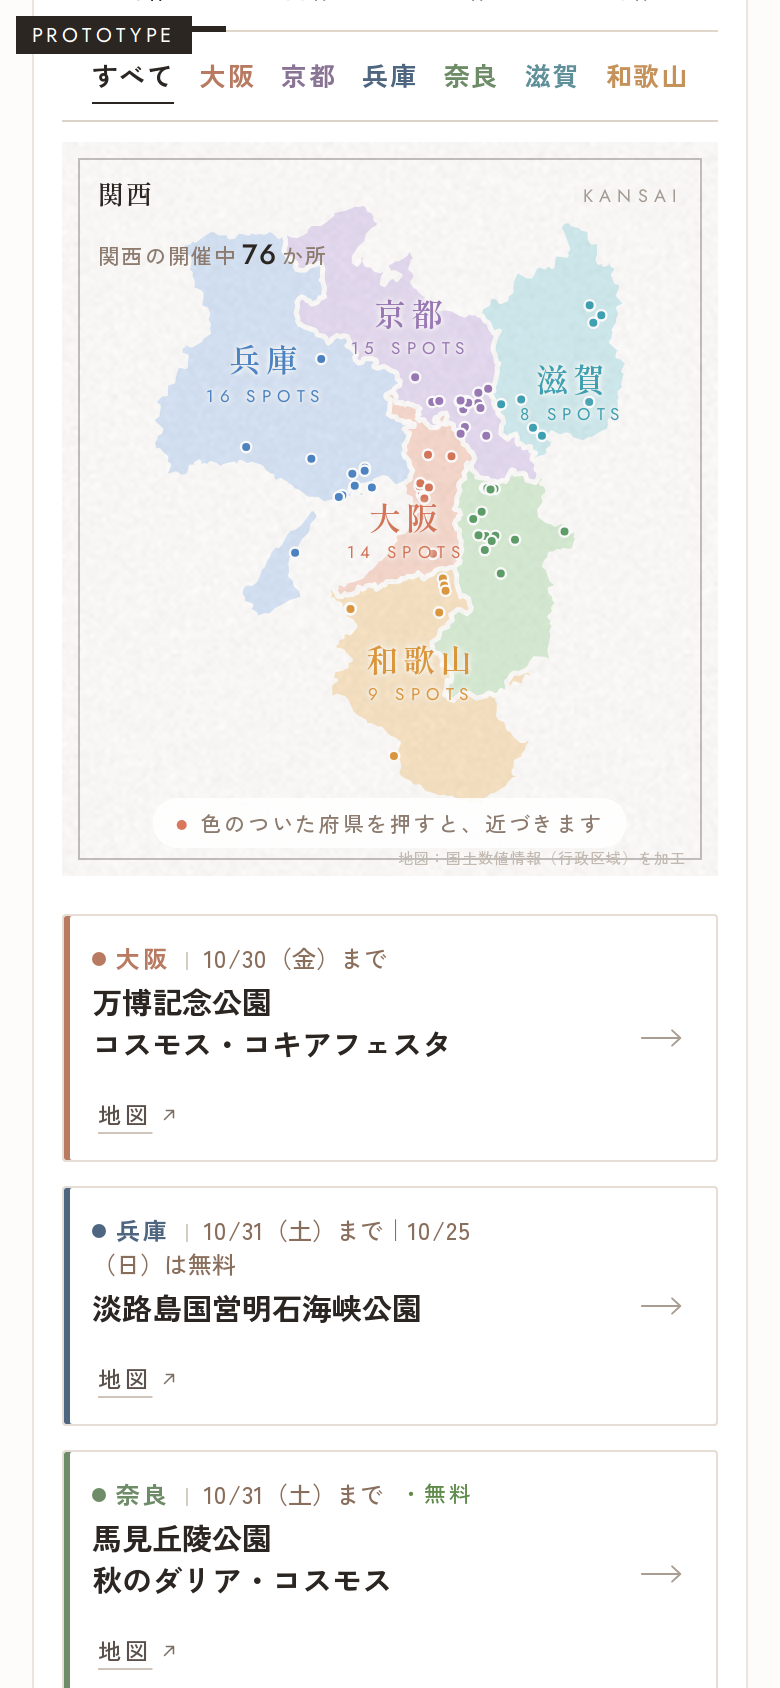
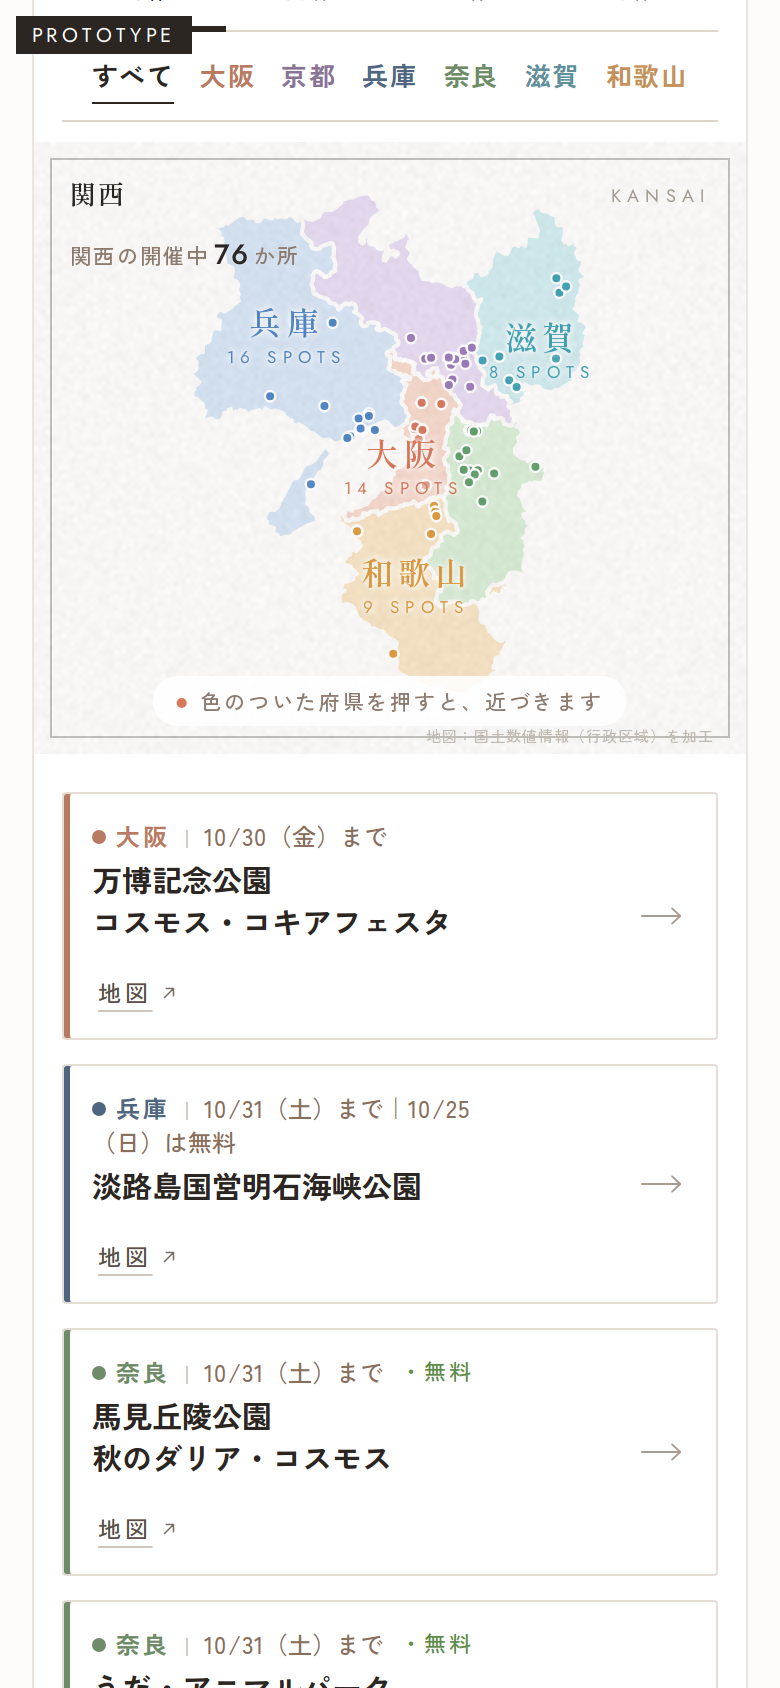
TOWN NOTES 試作：地図をなぞっても画面が閉じないように (#179)
* TOWN NOTES（仮）: おでかけ先の場所を緯度経度にする仕組み

Claude-Session: https://claude.ai/code/session_012U6So1FwuhCU8YQS91whDj

* TOWN NOTES（仮）: 地図とピンの仮ページ（links/townnotes/）

Claude-Session: https://claude.ai/code/session_012U6So1FwuhCU8YQS91whDj

* townnotes: geo.json

* TOWN NOTES（仮）: 今のおでかけリストに地図とピンを組み込んだ試作

Claude-Session: https://claude.ai/code/session_012U6So1FwuhCU8YQS91whDj

* 古い試作テンプレートを消す

Claude-Session: https://claude.ai/code/session_012U6So1FwuhCU8YQS91whDj

* townnotes: geo.json

* TOWN NOTES（仮）: もうすぐのピンを点線の輪に

Claude-Session: https://claude.ai/code/session_012U6So1FwuhCU8YQS91whDj

* TOWN NOTES（仮）: 地図を指で拡大できる明るい地図に（区名・駅名つき）

Claude-Session: https://claude.ai/code/session_012U6So1FwuhCU8YQS91whDj

* townnotes: shots

* TOWN NOTES（仮）: 府県名・まとまりの丸・出典の表示を直す

Claude-Session: https://claude.ai/code/session_012U6So1FwuhCU8YQS91whDj

* townnotes: shots

* TOWN NOTES（仮）: イラストの地図に戻す（府県・市区町村の形だけ、明るい色、指で拡大）

Claude-Session: https://claude.ai/code/session_012U6So1FwuhCU8YQS91whDj

* townnotes: shots

* TOWN NOTES（仮）: 府県を選んだとき、ほかの府県は薄いベージュに

Claude-Session: https://claude.ai/code/session_012U6So1FwuhCU8YQS91whDj

* townnotes: shots

* TOWN NOTES 試作 v5: 押すだけで 関西→府県→市・区 と寄る地図（指2本なし）

Claude-Session: https://claude.ai/code/session_012U6So1FwuhCU8YQS91whDj

* townnotes: shots

* TOWN NOTES 試作: 府県ボタンと件数を地図のすぐ上へ

Claude-Session: https://claude.ai/code/session_012U6So1FwuhCU8YQS91whDj

* townnotes: shots

* TOWN NOTES 試作: 件数の行は上に戻し、府県ボタンだけ地図の上へ
[…]

diff --git a/links/townnotes/map.js b/links/townnotes/map.js
@@ -17,6 +17,8 @@ function P(lon,lat){return [(lon-134)*82.2,(36-lat)*100]}
 // ---- 見た目 ----
 var css=`
 .tn{margin:0 0 18px}
+.tn .fr,.tn .fr *{-webkit-tap-highlight-color:transparent;-webkit-touch-callout:none}
+.tabs button,#flt button,.tn button,.tn .pop a{touch-action:manipulation;-webkit-tap-highlight-color:transparent}
 .tgrp{display:grid;grid-template-columns:1fr 1fr;gap:0 14px;margin:2px 0 6px}
 .tgrp span{display:block;text-align:center;font-family:"Zen Kaku Gothic New",sans-serif;font-weight:700;font-size:11px;letter-spacing:.14em;color:#8C7B6E;padding:0 0 6px;border-bottom:1px solid #D6CCC1;position:relative}
 .tgrp span:after{content:"";position:absolute;left:50%;bottom:-4px;width:7px;height:7px;background:#FDFCFA;border-right:1px solid #D6CCC1;border-bottom:1px solid #D6CCC1;transform:translateX(-50%) rotate(45deg)}
@@ -130,6 +132,7 @@ function clampVb(v){var b=panBox();if(!b)return v;var cx=v[0]+v[2]/2,cy=v[1]+v[3
 var FR=$(".fr",box);FR.addEventListener("pointerdown",function(e){if(level()===1||e.target.closest("button"))return;cancelAnimationFrame(anim);drag={x:e.clientX,y:e.clientY,v:vb.slice(),id:e.pointerId};moved=false});
 FR.addEventListener("pointermove",function(e){if(!drag||e.pointerId!==drag.id)return;var dx=e.clientX-drag.x,dy=e.clientY-drag.y;if(!moved&&Math.hypot(dx,dy)<6)return;if(!moved){moved=true;try{FR.setPointerCapture(drag.id)}catch(_){}}var u=drag.v[2]/(drag.w||(drag.w=svg.getBoundingClientRect().width||360));vb=clampVb([drag.v[0]-dx*u,drag.v[1]-dy*u,drag.v[2],drag.v[3]]);if(!drag.raf)drag.raf=requestAnimationFrame(function(){if(drag)drag.raf=0;apply(false)})});
 function endDrag(){var was=moved;drag=null;if(was)apply(true);setTimeout(function(){moved=false},0)}
+FR.addEventListener("touchmove",function(e){if(level()>1)e.preventDefault()},{passive:false});
 FR.addEventListener("pointerup",endDrag);FR.addEventListener("pointercancel",endDrag);
 // なぞった後の「押した」は無視（押し間違い防止）
 FR.addEventListener("click",function(e){if(moved){e.stopPropagation();e.preventDefault()}},true);

diff --git a/tools/townnotes/map.src.js b/tools/townnotes/map.src.js
@@ -17,6 +17,8 @@ function P(lon,lat){return [(lon-134)*82.2,(36-lat)*100]}
 // ---- 見た目 ----
 var css=`
 .tn{margin:0 0 18px}
+.tn .fr,.tn .fr *{-webkit-tap-highlight-color:transparent;-webkit-touch-callout:none}
+.tabs button,#flt button,.tn button,.tn .pop a{touch-action:manipulation;-webkit-tap-highlight-color:transparent}
 .tgrp{display:grid;grid-template-columns:1fr 1fr;gap:0 14px;margin:2px 0 6px}
 .tgrp span{display:block;text-align:center;font-family:"Zen Kaku Gothic New",sans-serif;font-weight:700;font-size:11px;letter-spacing:.14em;color:#8C7B6E;padding:0 0 6px;border-bottom:1px solid #D6CCC1;position:relative}
 .tgrp span:after{content:"";position:absolute;left:50%;bottom:-4px;width:7px;height:7px;background:#FDFCFA;border-right:1px solid #D6CCC1;border-bottom:1px solid #D6CCC1;transform:translateX(-50%) rotate(45deg)}
@@ -130,6 +132,7 @@ function clampVb(v){var b=panBox();if(!b)return v;var cx=v[0]+v[2]/2,cy=v[1]+v[3
 var FR=$(".fr",box);FR.addEventListener("pointerdown",function(e){if(level()===1||e.target.closest("button"))return;cancelAnimationFrame(anim);drag={x:e.clientX,y:e.clientY,v:vb.slice(),id:e.pointerId};moved=false});
 FR.addEventListener("pointermove",function(e){if(!drag||e.pointerId!==drag.id)return;var dx=e.clientX-drag.x,dy=e.clientY-drag.y;if(!moved&&Math.hypot(dx,dy)<6)return;if(!moved){moved=true;try{FR.setPointerCapture(drag.id)}catch(_){}}var u=drag.v[2]/(drag.w||(drag.w=svg.getBoundingClientRect().width||360));vb=clampVb([drag.v[0]-dx*u,drag.v[1]-dy*u,drag.v[2],drag.v[3]]);if(!drag.raf)drag.raf=requestAnimationFrame(function(){if(drag)drag.raf=0;apply(false)})});
 function endDrag(){var was=moved;drag=null;if(was)apply(true);setTimeout(function(){moved=false},0)}
+FR.addEventListener("touchmove",function(e){if(level()>1)e.preventDefault()},{passive:false});
 FR.addEventListener("pointerup",endDrag);FR.addEventListener("pointercancel",endDrag);
 // なぞった後の「押した」は無視（押し間違い防止）
 FR.addEventListener("click",function(e){if(moved){e.stopPropagation();e.preventDefault()}},true);
